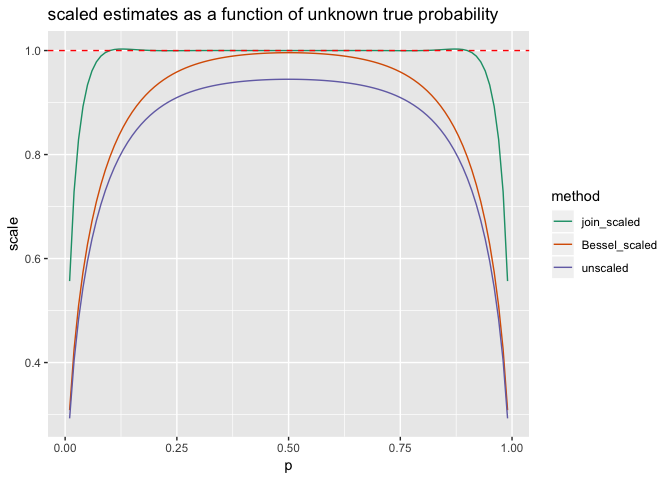
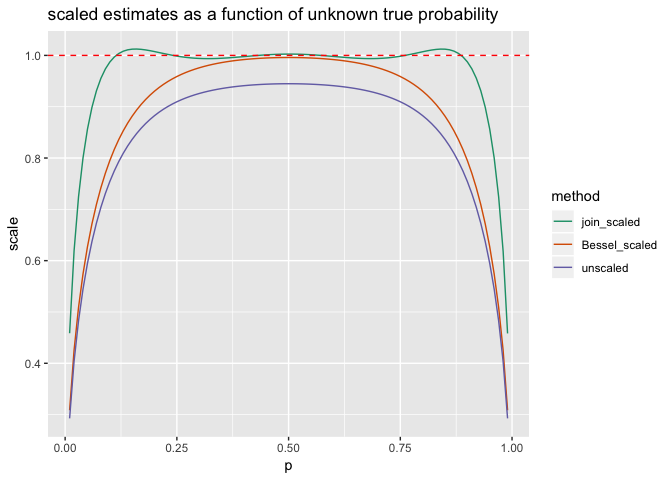
start regularizing

Changed region(s): [[0.0312, 0.0938, 0.7812, 0.6875], [0.0312, 0.75, 0.0625, 0.7812]]

diff --git a/extras/BiasEsts.md b/extras/BiasEsts.md
@@ -11,7 +11,16 @@ library("rqdatatable")
 library("wrapr")
 library("cdata")
 library("ggplot2")
+library("glmnet")
+```
 
+    ## Loading required package: Matrix
+
+    ## Loading required package: foreach
+
+    ## Loaded glmnet 2.0-16
+
+``` r
 set.seed(32535)
 
 naive_sd_fun <- function(x) {
@@ -36,7 +45,10 @@ eval_scale_adjustment_table <- function(scale_adjustment_table, p, sd_fun = naiv
 }
 
 
-  
+# related to Wald mini/max type ideas and:
+# http://www.win-vector.com/blog/2014/07/frequenstist-inference-only-seems-easy/
+# https://mathoverflow.net/questions/177574/existence-of-solutions-of-a-polynomial-system 
+# think this is under-determined, so could ask for symmetry or all coefs near 1.
 solve_for_scaling_table <- function(n, sd_fun = naive_sd_fun) {
   if(n<2) {
     return(rep(1, n+1))
@@ -44,25 +56,38 @@ solve_for_scaling_table <- function(n, sd_fun = naive_sd_fun) {
   obs <- 1:(n-1)
   ps <- obs/n
   d <- data.frame(target = sqrt(ps*(1-ps)))
-  for(k in obs) {
-    var <- paste0("s_", k)
-    d[[var]] <- 0
+  vars <- paste0("s_", obs)
+  for(vi in vars) {
+    d[[vi]] <- 0
+  }
+  for(ki in seq_len(length(obs))) {
+    k <- obs[[ki]]
+    var <- vars[[ki]]
     for(ii in seq_len(length(ps))) {
       pi <- ps[[ii]]
       prob <- dbinom(k, size = n, prob = pi)
       est <- sd_fun(c(rep(1, k), rep(0, n-k)))
-      d[[var]][[ii]] <- prob*est
+      d[[var]][[ii]] <- d[[var]][[ii]] + prob*est
     }
   }
-  vars <- paste0("s_", obs)
-  m <- lm(mk_formula("target", vars, intercept = FALSE), data= d)
-  soln <- as.numeric(m$coefficients)
+  #m <- lm(mk_formula("target", vars, intercept = FALSE), data= d)
+  #soln <- as.numeric(m$coefficients)
+  m <- glmnet(as.matrix(d[, vars, drop = FALSE]), d$target, 
+              alpha=0, lambda=1e-3, family = "gaussian", intercept = FALSE)
+  soln <- as.numeric(m$beta)
   mx <- max(soln)
   c(mx, soln, mx)
 }
 
 
 tab <- solve_for_scaling_table(10)
+print(tab)
+```
+
+    ##  [1] 1.6019795 1.6019795 1.0078889 0.9538643 1.0676530 1.1225602 1.0928068
+    ##  [8] 0.9283104 1.0191363 1.5999986 1.6019795
+
+``` r
 adjs <- data.frame(p = seq(0, 1, by = 0.01))
 adjs$join_scaled <- vapply(
   adjs$p,
@@ -103,7 +128,7 @@ adjs[adjs$p==0.5, , drop = FALSE]
 ```
 
     ##      p join_scaled Bessel_scaled  unscaled
-    ## 51 0.5           1     0.9959094 0.9448026
+    ## 51 0.5    1.002544     0.9959094 0.9448026
 
 ``` r
 adjs2 <- adjs
@@ -185,8 +210,8 @@ su <- summary1(
 print(su)
 ```
 
-    ##        mean       var        sd naive_var  naive_sd   adj_sd
-    ## 1 0.8695652 0.1185771 0.3443502 0.1134216 0.3367812 1.195131
+    ##        mean       var        sd naive_var  naive_sd    adj_sd
+    ## 1 0.8695652 0.1185771 0.3443502 0.1134216 0.3367812 0.3069167
 
 ``` r
 n <- length(universe)
@@ -229,4 +254,4 @@ as.data.frame(lapply(res, mean))
 ```
 
     ##       mean      var        sd naive_var  naive_sd    adj_sd
-    ## 1 0.870312 0.112862 0.2368051 0.0902896 0.2118049 0.3132125
+    ## 1 0.869402 0.113468 0.2377761 0.0907744 0.2126734 0.3079948
